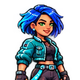
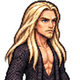
Redesign companion ranks 2–5 from user references; preserve base woman

diff --git a/release/Toma_Popescu_JOUER.html b/release/Toma_Popescu_JOUER.html
@@ -202,7 +202,7 @@ const DIFFICULTIES = {
   nightmare: { label: 'Légende dans sa tête', hp: 0.7, damage: 1.5, spawn: 1.45, speed: 1.18 },
 };
 
-// The same companion gains a new look and one readable support skill per rank.
+// Each rank represents a different woman and adds one readable support skill.
 const COMPANION_LEVELS = [
   {name:'Version gratuite',short:'CŒURS',description:'Elle te suit, tire des cœurs et ramasse les objets. 95 PV, +20 bouclier au déblocage.',color:'#ed6578'},
   {name:'Mise à jour',short:'ESQUIVE',description:'Elle réagit plus vite et évite les ennemis proches. 120 PV, cœurs plus forts et plus rapides.',color:'#59d6ec'},
@@ -219,7 +219,7 @@ const UPGRADES = [
   { id: 'ego', name: 'Ego surdimensionné', desc: '+20 PV maximum et 25 PV récupérés par rang. Ça déborde du cadre.', icon: 'ego', max: 5, color: '#cf83ff' },
   { id: 'money', name: 'Selfie de milliardaire', desc: 'Lance un éventail de billets. Les pièces soignent davantage à chaque rang.', icon: 'money', max: 5, color: '#8ee68e' },
   { id: 'airplane', name: 'Mode avion', desc: 'Dissipe le gaz, suspend les attaques spéciales proches et ralentit les ennemis. Immunité temporaire au gaz.', icon: 'airplane', max: 5, color: '#a5d8ff' },
-  { id: 'girlfriend', name: 'Blonde IA', desc: 'Copie locale hors ligne. Cinq looks : cœurs, esquive, collecte, protection et drones.', icon: 'girlfriend', max: 5, color: '#ff8cba' },
+  { id: 'girlfriend', name: 'Blonde IA', desc: 'Copie locale hors ligne. Cinq femmes différentes : cœurs, esquive, collecte, protection et drones.', icon: 'girlfriend', max: 5, color: '#ff8cba' },
   { id: 'charisma', name: 'Charisme imaginaire', desc: 'Les cœurs charment mieux et plus longtemps. Les boss résistent aux charmes répétés. Vitesse ennemie réduite de 7 % par rang.', icon: 'charisma', max: 5, color: '#fca8d4' },
   { id: 'chopper', name: 'Chopper inexistant', desc: 'Une moto holographique traverse la horde, frappe et repousse. Chaque rang augmente les dégâts et la fréquence.', icon: 'chopper', max: 5, color: '#6ce2cc' },
   { id: 'truth', name: 'Vérité brute', desc: 'Une onde de vérité blesse et repousse les ennemis proches. Les faits cognent fort.', icon: 'truth', max: 5, color: '#ffe193' },
@@ -7778,7 +7778,7 @@ function renderUpgrades(options){
   const button=document.createElement('button');button.className=`upgrade-card${evolution?' evolution-card':''}`;
   if(evolution)button.style.setProperty('--evolution-color',evolution.color);
   button.setAttribute('aria-label',`${u.name}. ${evolution?`Évolution disponible. ${evolution.requirement}. `:''}${description}. ${permanent?`Niveau ${rank+1}`:evolution?'Évolution permanente':'Récompense immédiate'}`);
-  const icon=document.createElement(companion?'img':'canvas');icon.width=48;icon.height=48;if(companion){icon.src=COMPANION_PORTRAITS[companion.rank-1];icon.alt=`La même Blonde IA, ${companion.name}`;}else drawIcon(icon.getContext('2d'),u.icon||u.id,0,0,48);
+  const icon=document.createElement(companion?'img':'canvas');icon.width=48;icon.height=48;if(companion){icon.src=COMPANION_PORTRAITS[companion.rank-1];icon.alt=`Blonde IA, niveau ${companion.rank}, ${companion.name}`;}else drawIcon(icon.getContext('2d'),u.icon||u.id,0,0,48);
   const copy=document.createElement('div');copy.className='upgrade-copy';const name=document.createElement('h3');name.textContent=companion?`${u.name} · ${companion.name}`:car?`${u.name} · ${car.name}`:u.name;
   const desc=document.createElement('p');desc.textContent=description;const level=document.createElement('span');level.className='upgrade-rank';
   if(evolution){level.textContent='ÉVOLUTION DISPONIBLE';const requirement=document.createElement('p');requirement.className='evolution-requirement';requirement.textContent=evolution.requirement;copy.append(name,level,requirement,desc);}

diff --git a/dist/content.js b/dist/content.js
@@ -6,7 +6,7 @@ export const DIFFICULTIES = {
   nightmare: { label: 'Légende dans sa tête', hp: 0.7, damage: 1.5, spawn: 1.45, speed: 1.18 },
 };
 
-// The same companion gains a new look and one readable support skill per rank.
+// Each rank represents a different woman and adds one readable support skill.
 export const COMPANION_LEVELS = [
   {name:'Version gratuite',short:'CŒURS',description:'Elle te suit, tire des cœurs et ramasse les objets. 95 PV, +20 bouclier au déblocage.',color:'#ed6578'},
   {name:'Mise à jour',short:'ESQUIVE',description:'Elle réagit plus vite et évite les ennemis proches. 120 PV, cœurs plus forts et plus rapides.',color:'#59d6ec'},
@@ -23,7 +23,7 @@ export const UPGRADES = [
   { id: 'ego', name: 'Ego surdimensionné', desc: '+20 PV maximum et 25 PV récupérés par rang. Ça déborde du cadre.', icon: 'ego', max: 5, color: '#cf83ff' },
   { id: 'money', name: 'Selfie de milliardaire', desc: 'Lance un éventail de billets. Les pièces soignent davantage à chaque rang.', icon: 'money', max: 5, color: '#8ee68e' },
   { id: 'airplane', name: 'Mode avion', desc: 'Dissipe le gaz, suspend les attaques spéciales proches et ralentit les ennemis. Immunité temporaire au gaz.', icon: 'airplane', max: 5, color: '#a5d8ff' },
-  { id: 'girlfriend', name: 'Blonde IA', desc: 'Copie locale hors ligne. Cinq looks : cœurs, esquive, collecte, protection et drones.', icon: 'girlfriend', max: 5, color: '#ff8cba' },
+  { id: 'girlfriend', name: 'Blonde IA', desc: 'Copie locale hors ligne. Cinq femmes différentes : cœurs, esquive, collecte, protection et drones.', icon: 'girlfriend', max: 5, color: '#ff8cba' },
   { id: 'charisma', name: 'Charisme imaginaire', desc: 'Les cœurs charment mieux et plus longtemps. Les boss résistent aux charmes répétés. Vitesse ennemie réduite de 7 % par rang.', icon: 'charisma', max: 5, color: '#fca8d4' },
   { id: 'chopper', name: 'Chopper inexistant', desc: 'Une moto holographique traverse la horde, frappe et repousse. Chaque rang augmente les dégâts et la fréquence.', icon: 'chopper', max: 5, color: '#6ce2cc' },
   { id: 'truth', name: 'Vérité brute', desc: 'Une onde de vérité blesse et repousse les ennemis proches. Les faits cognent fort.', icon: 'truth', max: 5, color: '#ffe193' },

diff --git a/tests/companion-reference-art.test.js b/tests/companion-reference-art.test.js
@@ -1,0 +1,29 @@
+import test from 'node:test';
+import assert from 'node:assert/strict';
+import {createHash} from 'node:crypto';
+import {readFileSync} from 'node:fs';
+let createCanvas,loadImage;
+try { ({createCanvas,loadImage}=await import('@napi-rs/canvas')); } catch {}
+const sha=bytes=>createHash('sha256').update(bytes).digest('hex');
+test('reference redesign preserves rank 1 pixel for pixel and six whole frames per changed rank',{skip:!createCanvas?'optional @napi-rs/canvas is unavailable':false},async()=>{
+ const image=await loadImage(new URL('../dist/assets/companion-levels-whole.png',import.meta.url).pathname);
+ const canvas=createCanvas(768,640),ctx=canvas.getContext('2d');ctx.drawImage(image,0,0);
+ // Compare original immutable RGBA pixels through the same Canvas decoder.
[1 lines of base64/hex data omitted]
+ for(let row=0;row<1;row++) assert.equal(sha(ctx.getImageData(0,row*128,768,128).data),expected[row]);
+ for(let rank=2;rank<=5;rank++){
+  const poses=[];
+  for(let pose=0;pose<6;pose++){
+   const pixels=ctx.getImageData(pose*128,(rank-1)*128,128,128).data;poses.push(sha(pixels));
+   let count=0;for(let y=0;y<128;y++)for(let x=0;x<128;x++)if(pixels[(y*128+x)*4+3]>=32){count++;assert(x>0&&x<127&&y>0&&y<127,'figure stays inside its cell');}
+   assert(count>1500,'a complete visible figure occupies each cell');
+  }
+  assert.equal(new Set(poses).size,6,'all six frames differ');
+ }
+
+});
+test('copy explicitly describes different women rather than one transforming woman',()=>{
+ const app=readFileSync(new URL('../dist/app.js',import.meta.url),'utf8');
+ const content=readFileSync(new URL('../dist/content.js',import.meta.url),'utf8');
+ assert(!app.includes('La même Blonde IA'));assert(content.includes('Cinq femmes différentes'));
+});

diff --git a/tests/dialogue-presentation.test.js b/tests/dialogue-presentation.test.js
@@ -94,14 +94,14 @@ test('CSS isolates the new view, keeps actual Canvas background and guards short
  assert.match(variant,/\.encounter-dialogue \.dialogue-art[^}]*display:none/s);
  assert.match(variant,/\.encounter-dialogue #dialogue-text[^}]*min-height:0/s);
 });
-test('existing companion portraits and level atlas retain fixed approved SHA-256 hashes',()=>{
+test('companion portraits and reference-redesigned level atlas retain fixed SHA-256 hashes',()=>{
  const expected={
[11 lines of base64/hex data omitted]
  };
  for(const [name,hash]of Object.entries(expected))assert.equal(createHash('sha256').update(readFileSync(new URL(`../dist/assets/${name}`,import.meta.url))).digest('hex'),hash,name);
 });

diff --git a/dist/app.js b/dist/app.js
@@ -224,7 +224,7 @@ function renderUpgrades(options){
   const button=document.createElement('button');button.className=`upgrade-card${evolution?' evolution-card':''}`;
   if(evolution)button.style.setProperty('--evolution-color',evolution.color);
   button.setAttribute('aria-label',`${u.name}. ${evolution?`Évolution disponible. ${evolution.requirement}. `:''}${description}. ${permanent?`Niveau ${rank+1}`:evolution?'Évolution permanente':'Récompense immédiate'}`);
-  const icon=document.createElement(companion?'img':'canvas');icon.width=48;icon.height=48;if(companion){icon.src=COMPANION_PORTRAITS[companion.rank-1];icon.alt=`La même Blonde IA, ${companion.name}`;}else drawIcon(icon.getContext('2d'),u.icon||u.id,0,0,48);
+  const icon=document.createElement(companion?'img':'canvas');icon.width=48;icon.height=48;if(companion){icon.src=COMPANION_PORTRAITS[companion.rank-1];icon.alt=`Blonde IA, niveau ${companion.rank}, ${companion.name}`;}else drawIcon(icon.getContext('2d'),u.icon||u.id,0,0,48);
   const copy=document.createElement('div');copy.className='upgrade-copy';const name=document.createElement('h3');name.textContent=companion?`${u.name} · ${companion.name}`:car?`${u.name} · ${car.name}`:u.name;
   const desc=document.createElement('p');desc.textContent=description;const level=document.createElement('span');level.className='upgrade-rank';
   if(evolution){level.textContent='ÉVOLUTION DISPONIBLE';const requirement=document.createElement('p');requirement.className='evolution-requirement';requirement.textContent=evolution.requirement;copy.append(name,level,requirement,desc);}

diff --git a/scripts/prepare-companion-references.py b/scripts/prepare-companion-references.py
@@ -1,0 +1,36 @@
+#!/usr/bin/env python3
+"""Register generated whole-body reference sheets; preserve all other ranks.
+
+Only crop and uniformly resize existing RGBA paintings. No body part assembly,
+pixel redrawing, background extraction, or procedural animation.
+"""
+from pathlib import Path
+from PIL import Image
+
+ROOT = Path(__file__).resolve().parents[1]
+atlas_path = ROOT / 'dist/assets/companion-levels-whole.png'
+atlas = Image.open(atlas_path).convert('RGBA')
+for rank in (2, 3, 4, 5):
+    source_path = ROOT / f'art/source/companion/rank-{rank}-reference-source.png'
+    if not source_path.exists():
+        continue
+    source = Image.open(source_path).convert('RGBA')
+    width, height = source.size
+    for pose in range(6):
+        col, row = pose % 3, pose // 3
+        cell = source.crop((col*width//3, row*height//2,
+                            (col+1)*width//3, (row+1)*height//2))
+        bounds = cell.getchannel('A').point(lambda a: 255 if a >= 32 else 0).getbbox()
+        assert bounds, (rank, pose)
+        figure = cell.crop(bounds)
+        scale = min(114/figure.height, 114/figure.width)
+        sprite = figure.resize((round(figure.width*scale), round(figure.height*scale)), Image.Resampling.LANCZOS)
+        atlas.paste((0, 0, 0, 0), (pose*128, (rank-1)*128, (pose+1)*128, rank*128))
+        atlas.alpha_composite(sprite, (pose*128+(128-sprite.width)//2, (rank-1)*128+121-sprite.height))
+        if pose == 0:
+            # Square head-and-shoulders crop from the same figure as gameplay.
+            size = round(figure.height*.45)
+            left = (figure.width-size)//2
+            portrait = figure.crop((left, 0, left+size, size)).resize((80,80), Image.Resampling.LANCZOS)
+            portrait.save(ROOT / f'dist/assets/companion-portrait-{rank}.png', optimize=True)
+atlas.save(atlas_path, optimize=True)

diff --git a/scripts/prepare-companion-art.py b/scripts/prepare-companion-art.py
@@ -34,6 +34,10 @@ for rank in range(5):
     top=rows[rank]
     portrait=source.crop((72,top+2,223,top+153)).resize((80,80),Image.Resampling.LANCZOS)
     portrait.save(ROOT / f'dist/assets/companion-portrait-{rank+1}.png',optimize=True)
+# Keep user-requested distinct women when rebuilding the legacy source atlas.
+import runpy
+runpy.run_path(str(ROOT/'scripts/prepare-companion-references.py'), run_name='__main__')
+atlas = Image.open(ROOT/'dist/assets/companion-levels-whole.png').convert('RGBA')
 # Contact sheet at actual game size plus 2x enlargement, on the game's dark palette.
 preview = Image.new('RGB', (1090, 520), '#17152c')
 draw = ImageDraw.Draw(preview)

diff --git a/docs/QA-COMPANION-REFERENCES.md b/docs/QA-COMPANION-REFERENCES.md
@@ -1,0 +1,23 @@
+# Compagnes distinctes — références du 6 novembre 2026
+
+Les niveaux 2 à 5 utilisent chacun une femme distincte, dessinée d’après les références fournies. Le niveau 1 reste strictement celui de base : pixels de ses six poses et fichier portrait inchangés, ainsi que les portraits de l’introduction et des paramètres.
+
+- Niveau 2 : longs cheveux blonds droits, visage anguleux, tenue noire.
+- Niveau 3 : cheveux blonds, veste rose, mâchoire carrée et arcade sourcilière marquée. Une seconde peinture corrige les traits trop féminisés signalés par la revue indépendante.
+- Niveau 4 : silhouette ronde, cheveux très courts, tatouages, tee-shirt noir et jean.
+- Niveau 5 : silhouette ronde, longues tresses, robe et coiffe orange/turquoise inspirées de la référence.
+
+Les quatre sources RGBA sont générées avec l’outil d’image intégré. Chaque feuille contient six figures complètes : arrêt, deux pas avant, arrêt arrière, deux pas arrière. La préparation effectue seulement recadrage et réduction uniforme. Les portraits proviennent de la figure au repos. Le script historique réapplique ces feuilles lors d’une reconstruction pour éviter tout retour accidentel aux anciennes apparences.
+
+L’atlas conserve ses dimensions 768 × 640, ses cellules 128 × 128, l’ancrage et le chemin existants. Aucun changement de moteur, de cadence de marche, de dégâts, de capacité, de sauvegarde, de contrôles, de Toma ou d’introduction. Deux libellés précisent désormais que les femmes sont différentes.
+
+## Validation
+
+- Revue visuelle indépendante des références, sources, portraits et rendus réels : validée après correction du niveau 3.
+- Six poses distinctes par niveau, corps entiers, transparence et marges sans découpe.
+- Test de pixels du niveau 1 et empreintes des portraits/atlas.
+- Tests compagne, présentation et sauvegardes ; suite complète de 1627 tests.
+- Captures par le vrai Renderer à 390 × 844, sans mutation de simulation ; contact par CompanionArt.
+- Exports dossier hors ligne et monofichier régénérés.
+
+Les preuves natives sont dans `proof/companion-references/`. Il s’agit de Canvas natif, pas d’une mesure sur téléphone ni d’une validation tactile ou navigateur. La référence photographique sert à une ressemblance stylisée, pas à une reproduction photographique exacte. Les photos originales ne sont pas ajoutées au dépôt.
